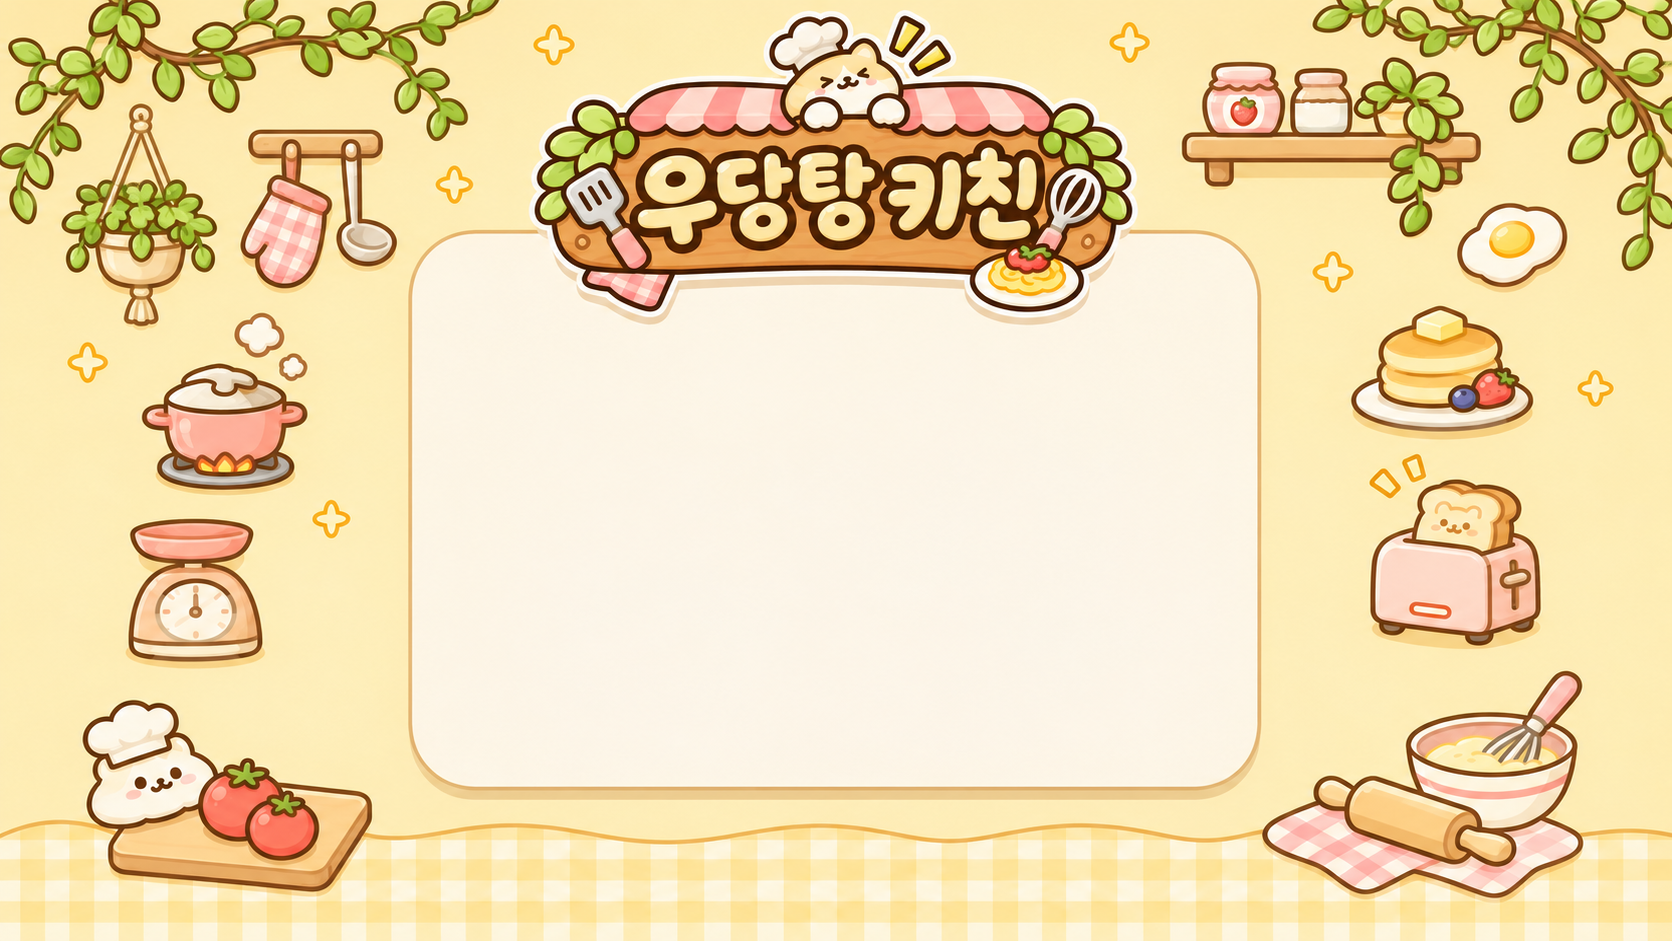
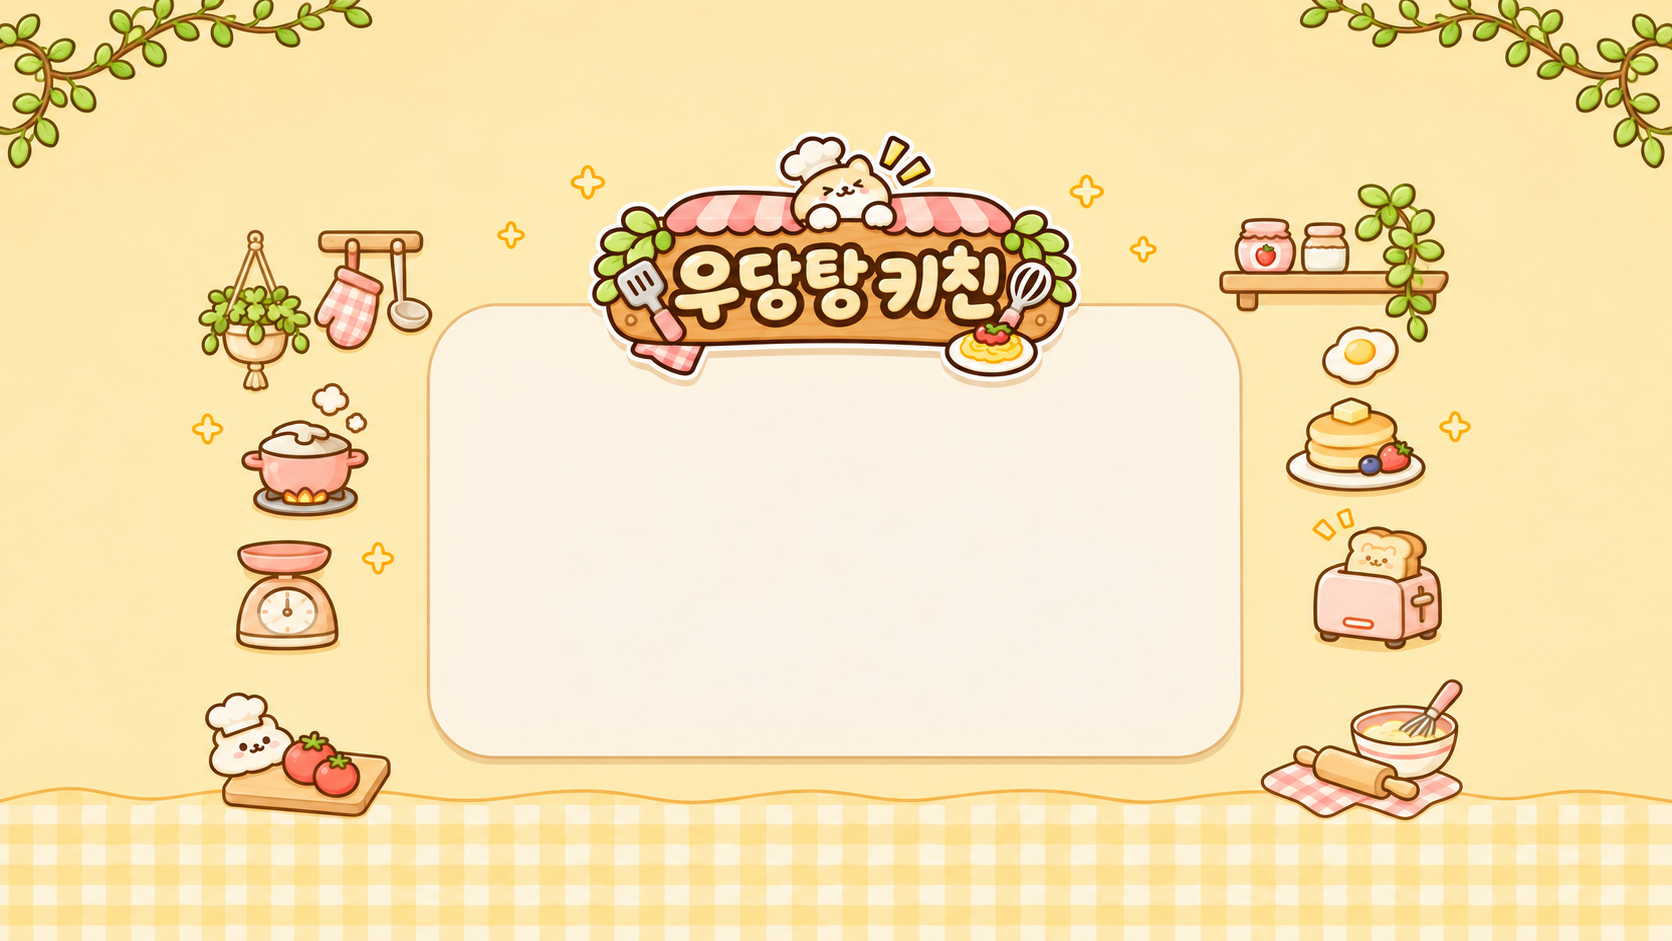
Preserve lobby artwork aspect ratio on wide screens

diff --git a/public/index.html b/public/index.html
@@ -187,15 +187,18 @@ body:has(#lobby:not([style*="display: none"])) .scene-decor { display: none; }
 }
 @media (min-width: 800px) and (min-height: 440px) and (min-aspect-ratio: 6/5) {
   #lobby {
+    --art-height: max(100svh, calc(100vw * 941 / 1672));
     left: 0;
     width: 100%;
     height: 100svh;
     aspect-ratio: auto;
     transform: none;
     background-image: url("/lobby-wide.png");
+    background-size: cover;
   }
   .lobby-controls {
-    inset: 36.5% auto auto 50%;
+    /* Anchor the form to the blank panel in the uniformly scaled artwork. */
+    inset: calc(50% - var(--art-height) * .075) auto auto 50%;
     width: min(46%, 85svh, 800px);
     transform: translateX(-50%);
     gap: clamp(3px, .85svh, 8px);
